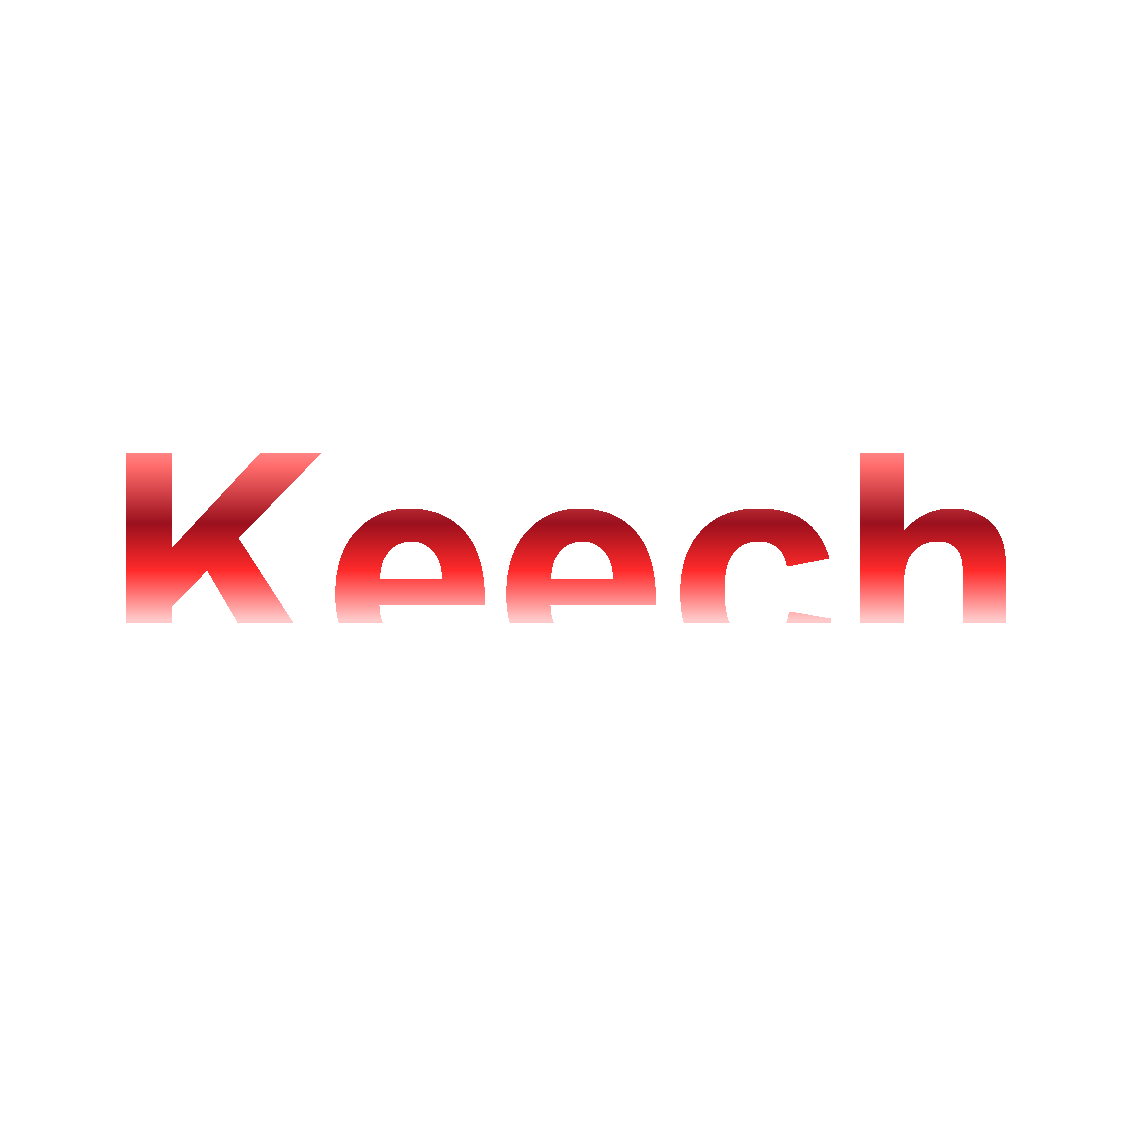
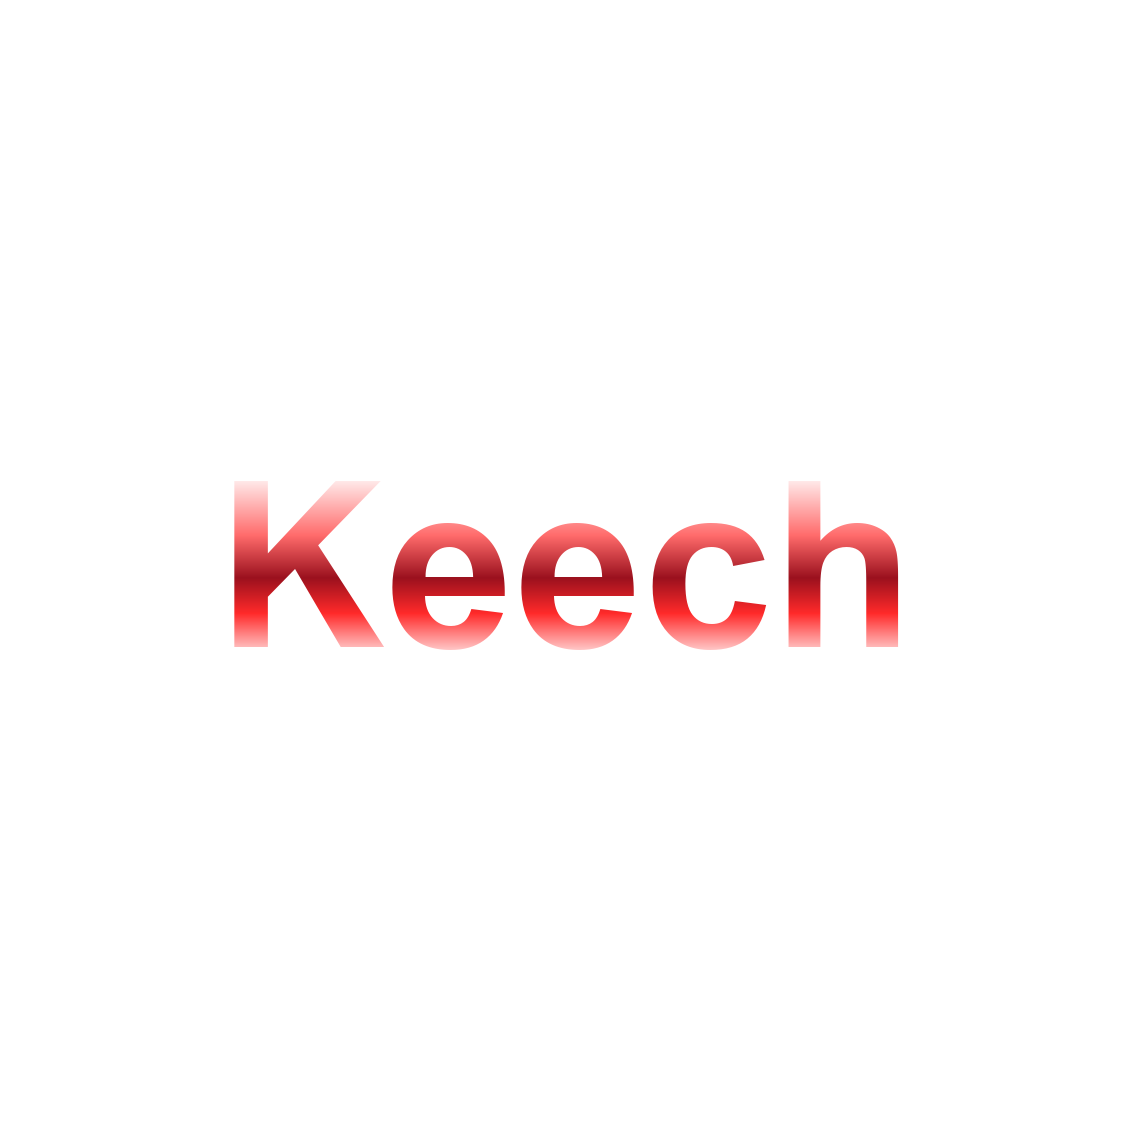
Fix Halloween nick reward clipping inside BP milestone circle.
Shrink cutout glyphs and scale nick icon to 70% so round overflow keeps full letters.

Changed region(s): [[0.0928, 0.4023, 0.8974, 0.588]]

diff --git a/src/app/globals.css b/src/app/globals.css
@@ -20916,7 +20916,7 @@ body:has(.profile-page) {
   --s2-orange: #fb923c;
   --s2-violet: #a78bfa;
   display: grid;
-  grid-template-rows: auto auto minmax(0, 1.35fr) minmax(160px, 0.55fr);
+  grid-template-rows: auto auto minmax(0, 1.25fr) minmax(228px, 0.72fr);
   grid-template-columns: minmax(0, 1.55fr) minmax(280px, 1fr);
   grid-template-areas:
     "hero hero"
@@ -21418,7 +21418,9 @@ body:has(.profile-page) {
   justify-content: space-evenly;
   align-items: center;
   gap: 14px;
-  padding: 12px 12px 10px;
+  padding: 10px 12px 12px;
+  min-height: 0;
+  overflow: visible;
   border-radius: 14px;
   border: 1px solid rgba(74, 222, 128, 0.35);
   background:
@@ -21449,7 +21451,8 @@ body:has(.profile-page) {
 }
 .bp-s2-mile-ring {
   position: relative;
-  width: min(176px, 100%);
+  width: min(148px, 100%);
+  flex: 0 0 auto;
   aspect-ratio: 1;
   border-radius: 50%;
   border: 2.5px solid rgba(74, 222, 128, 0.5);
@@ -21506,6 +21509,7 @@ body:has(.profile-page) {
   width: 96%;
   height: 96%;
   object-fit: contain;
+  object-position: center;
   background: transparent !important;
   filter: drop-shadow(0 0 10px rgba(74, 222, 128, 0.32));
 }
@@ -21513,6 +21517,14 @@ body:has(.profile-page) {
   width: 100%;
   height: 100%;
   object-fit: cover;
+  filter: none;
+}
+/* Ник в круге — не обрезать низ букв круглым overflow */
+.bp-s2-mile.is-nick .bp-s2-mile-ring img {
+  width: 70%;
+  height: 70%;
+  object-fit: contain;
+  object-position: center;
   filter: none;
 }
 /* L5 нож — мягкий бледно-зелёный ореол */
@@ -21635,8 +21647,10 @@ body:has(.profile-page) {
     inset 0 -10px 24px rgba(255, 24, 56, 0.18);
 }
 .bp-s2-mile-name {
+  flex: 0 0 auto;
   font-family: var(--font-display);
   font-size: 1.05rem;
+  line-height: 1.15;
   letter-spacing: 0.06em;
   text-transform: uppercase;
   color: #ecfdf5;

diff --git a/src/lib/battlePassSeason2.ts b/src/lib/battlePassSeason2.ts
@@ -240,7 +240,7 @@ export const BP_S2_REWARDS: BpReward[] = [
     preview:
       "Металлический алый ник — как Aurum, но в красных тонах",
     hover: "Алая жатва · ур. 15 Season 2 Halloween",
-    image: "/bp-halloween/nick-v2.jpg?v=scarlet4",
+    image: "/bp-halloween/nick-v2.jpg?v=scarlet5",
   },
   {
     level: 20,
@@ -278,7 +278,7 @@ export function s2RewardFullImage(reward: BpReward): string {
   if (reward.id === "hw2-knife") return "/bp-halloween/knife-hook-v2-cutout.png?v=blood1";
   if (reward.id === "hw2-gun") return "/bp-halloween/weapon-ak-v2-cutout.png?v=blood1";
   if (reward.id === "hw2-trophy") return "/bp-halloween/pomegranate-relic-v1-cutout.png?v=3";
-  if (reward.id === "hw2-nick") return "/bp-halloween/nick-v2-cutout.png?v=scarlet4";
+  if (reward.id === "hw2-nick") return "/bp-halloween/nick-v2-cutout.png?v=scarlet5";
   return reward.image || BP_S2_IDLE_ART;
 }
 
@@ -291,7 +291,7 @@ export function s2RewardMileImage(reward: BpReward): string {
   if (reward.id === "hw2-knife") return "/bp-halloween/knife-hook-v2-cutout.png?v=blood1";
   if (reward.id === "hw2-gun") return "/bp-halloween/weapon-ak-v2-cutout.png?v=blood1";
   if (reward.id === "hw2-trophy") return "/bp-halloween/pomegranate-relic-v1-cutout.png?v=3";
-  if (reward.id === "hw2-nick") return "/bp-halloween/nick-v2-cutout.png?v=scarlet4";
+  if (reward.id === "hw2-nick") return "/bp-halloween/nick-v2-cutout.png?v=scarlet5";
   return reward.image || BP_S2_IDLE_ART;
 }
 

diff --git a/src/components/Season2BattlePass.tsx b/src/components/Season2BattlePass.tsx
@@ -382,6 +382,7 @@ export function Season2BattlePass({
                     "bp-s2-mile",
                     isBg ? "is-bg" : "is-clean",
                     r.id === "hw2-trophy" ? "is-relic" : "",
+                    r.id === "hw2-nick" ? "is-nick" : "",
                     r.id === "hw2-knife" || r.id === "hw2-gun"
                       ? "is-blood-knife"
                       : "",

diff --git a/docs/CHANGELOG.md b/docs/CHANGELOG.md
@@ -4,6 +4,12 @@
 
 ---
 
+## v. 1.2.132 — 03.11.2026 · BP ник: буквы не обрезает круг
+
+Арт «Алая жатва» уменьшен под круглый слот; в CSS img 70% — низ Keech больше не съедается.
+
+---
+
 ## v. 1.2.131 — 03.11.2026 · Halloween фон: выбран «Туманный центр»
 
 Вариант C зафиксирован как «Ночной урожай» (награда BP). A/B/D и старый арт убраны из выбора.
